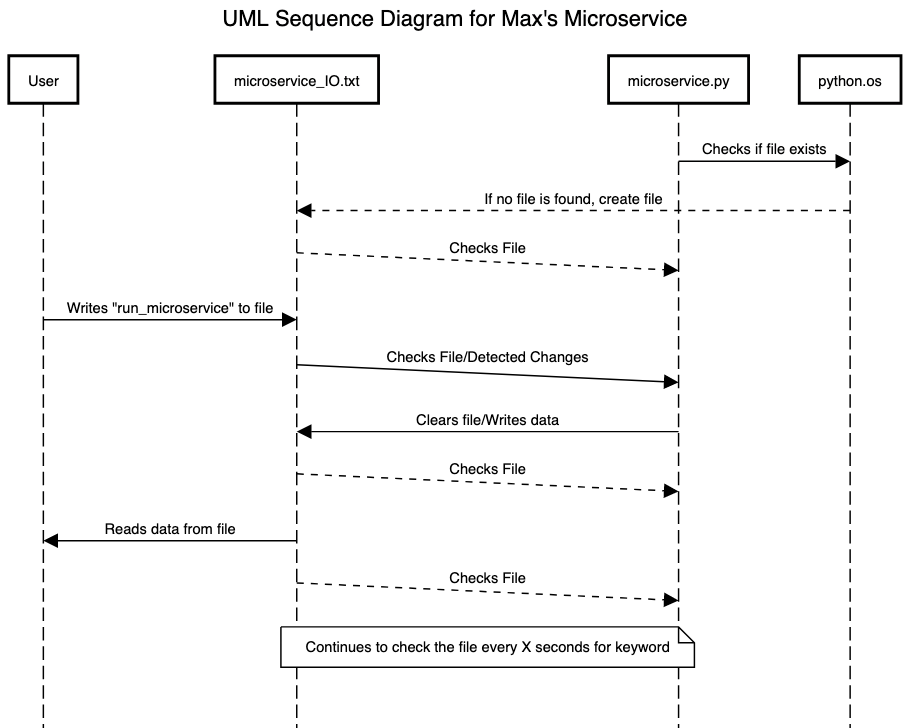
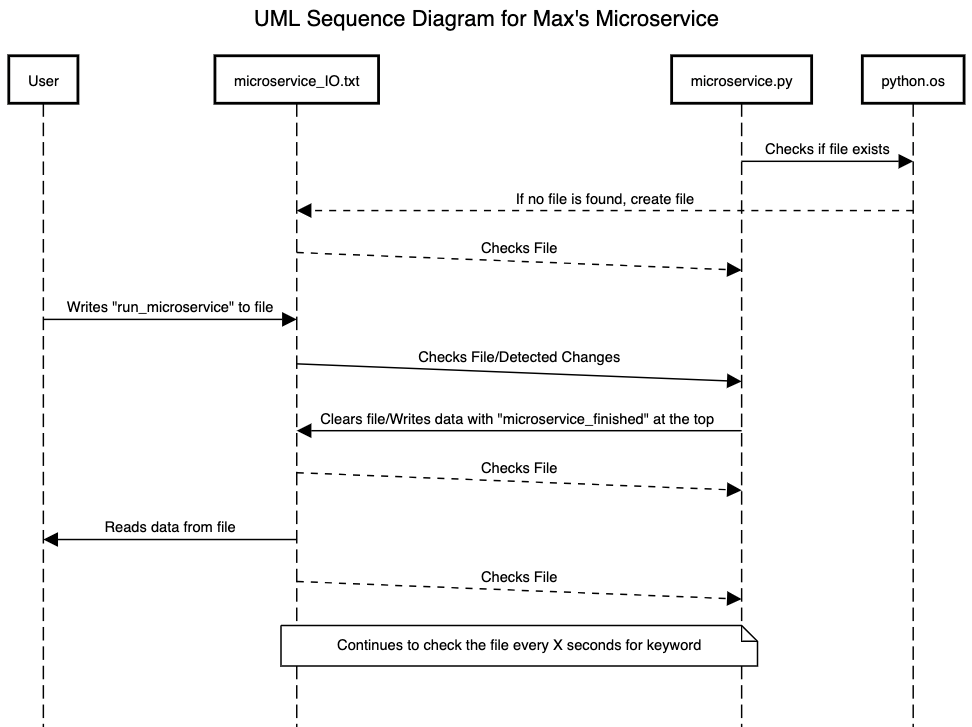
Add microservice return data

diff --git a/max-microservice/microservice.py b/max-microservice/microservice.py
@@ -30,9 +30,17 @@ def write_file(string):
         file.close()
 
 
+# Append string to file function
+def append_file(string):
+    with open(triggerFilePath, 'a') as file:
+        file.write(string)
+        file.close()
+
+
 # Microservice function
 def microservice():
-    write_file('Microservice is running...')
+    write_file("microservice_finished\n")
+    append_file('Lorem ipsum dolor sit amet, consectetur adipiscing elit, sed do eiusmod tempor')
 
 
 def main():

diff --git a/max-microservice/README.md b/max-microservice/README.md
@@ -12,6 +12,7 @@ This will run the microservice and run the code required for the microservice to
 ## Receive Data
 The microservice will send data to the text file `microservice_IO.txt`.
 The data will be stored in this file for any other script to read and handle accordingly.
+To signify the microservice has finished running, the text file will contain the string `microservice_finished`
 
 ## UML Sequence Diagram
 ![UML.png](images/UML.png)
